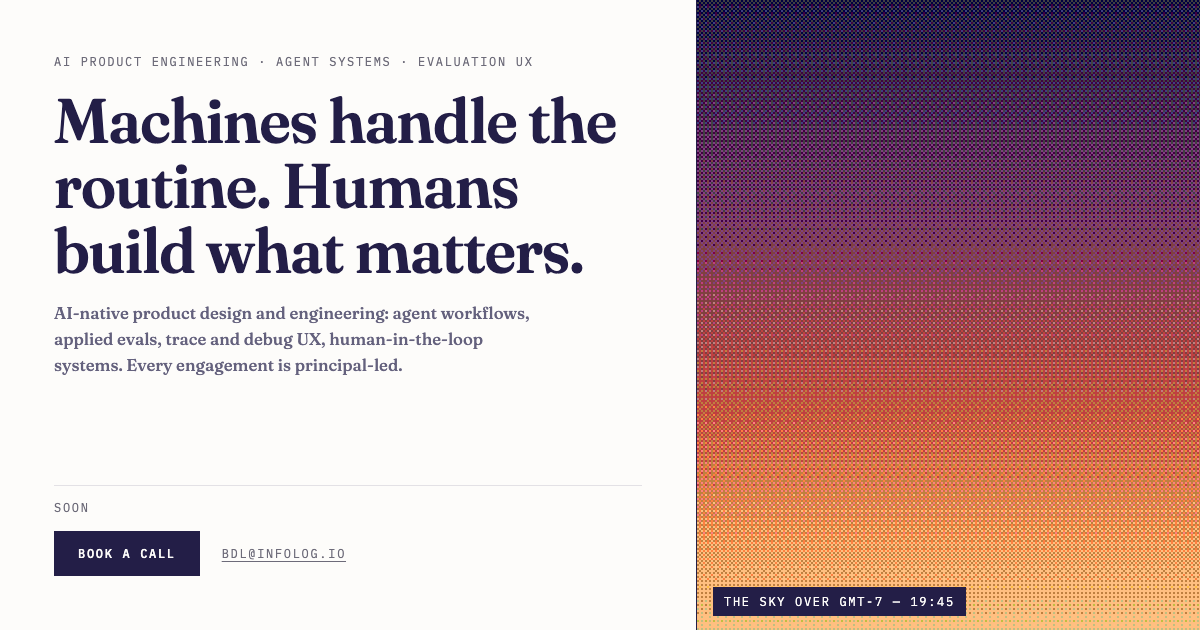
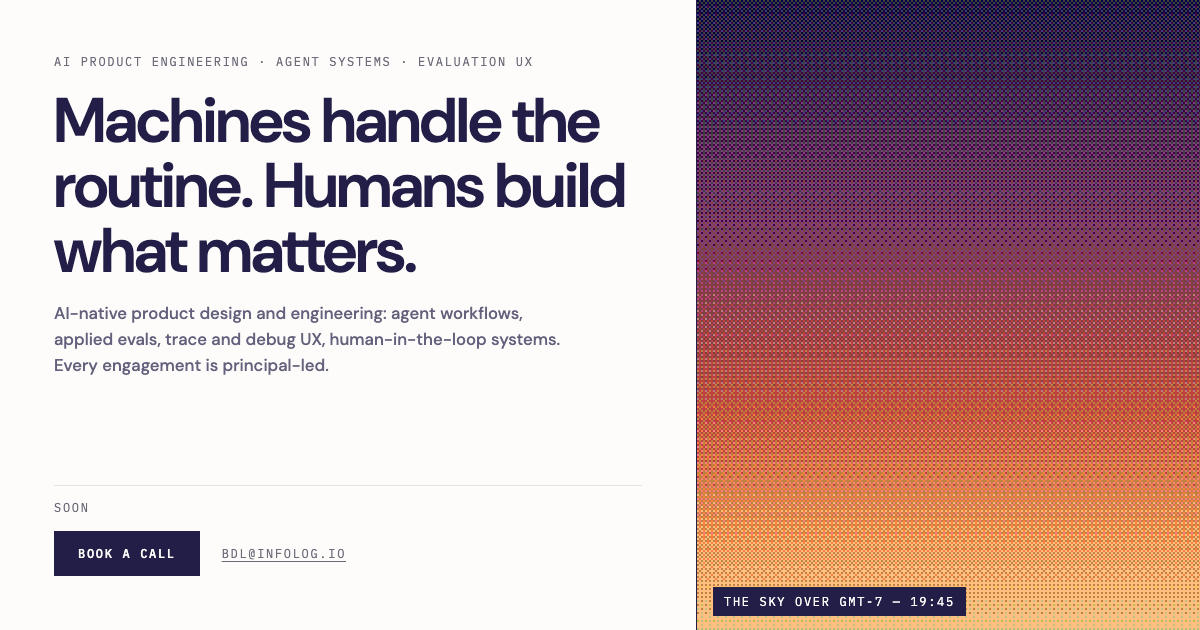
feat: display type Fraunces → DM Sans (aligns with infolog.lib stack)
og:image regenerated.

Changed region(s): [[0.0308, 0.1508, 0.5242, 0.3317], [0.0308, 0.4825, 0.4625, 0.6032], [0.0308, 0.3619, 0.4933, 0.4524]]

diff --git a/index.html b/index.html
@@ -52,7 +52,7 @@
 </script>
 <link rel="preconnect" href="https://fonts.googleapis.com">
 <link rel="preconnect" href="https://fonts.gstatic.com" crossorigin>
-<link href="https://fonts.googleapis.com/css2?family=Fraunces:opsz,wght@9..144,500;9..144,600&family=IBM+Plex+Mono:wght@400;500&display=swap" rel="stylesheet">
+<link href="https://fonts.googleapis.com/css2?family=DM+Sans:opsz,wght@9..40,500;9..40,600&family=IBM+Plex+Mono:wght@400;500&display=swap" rel="stylesheet">
 <style>
   :root {
     --paper: #fdfcfa;
@@ -66,7 +66,7 @@
   body {
     background: var(--paper);
     color: var(--ink);
-    font-family: "Fraunces", Georgia, serif;
+    font-family: "DM Sans", "Helvetica Neue", Arial, sans-serif;
   }
   .page {
     display: grid;
@@ -89,7 +89,7 @@
   h1 {
     font-size: clamp(2.4rem, 5.2vw, 4.5rem);
     font-weight: 600;
-    letter-spacing: -0.015em;
+    letter-spacing: -0.02em;
     line-height: 1.04;
     margin-top: clamp(20px, 3vh, 44px);
     max-width: 14ch;

diff --git a/docs/superpowers/specs/2026-06-10-coming-soon-placeholder-design.md b/docs/superpowers/specs/2026-06-10-coming-soon-placeholder-design.md
@@ -28,7 +28,7 @@ No project callouts. The five-project lineup (crow.pet, multiplex.chat, skillstu
 
 ## Type
 
-- Display + lede: Fraunces (Google Fonts), weight 600 display, 500 lede, tracking −0.015em, leading 1.04.
+- Display + lede: DM Sans (Google Fonts), weight 600 display, 500 lede, tracking −0.02em, leading 1.04. Replaced Fraunces same day (Brendan's call). This aligns the placeholder with infolog.lib's locked type stack.
 - Labels, caption, CTA: IBM Plex Mono, letter-spacing 0.14em, uppercase.
 - Headline sizes via clamp: 2.4rem mobile → 4.5rem desktop. Big type is the design.
 